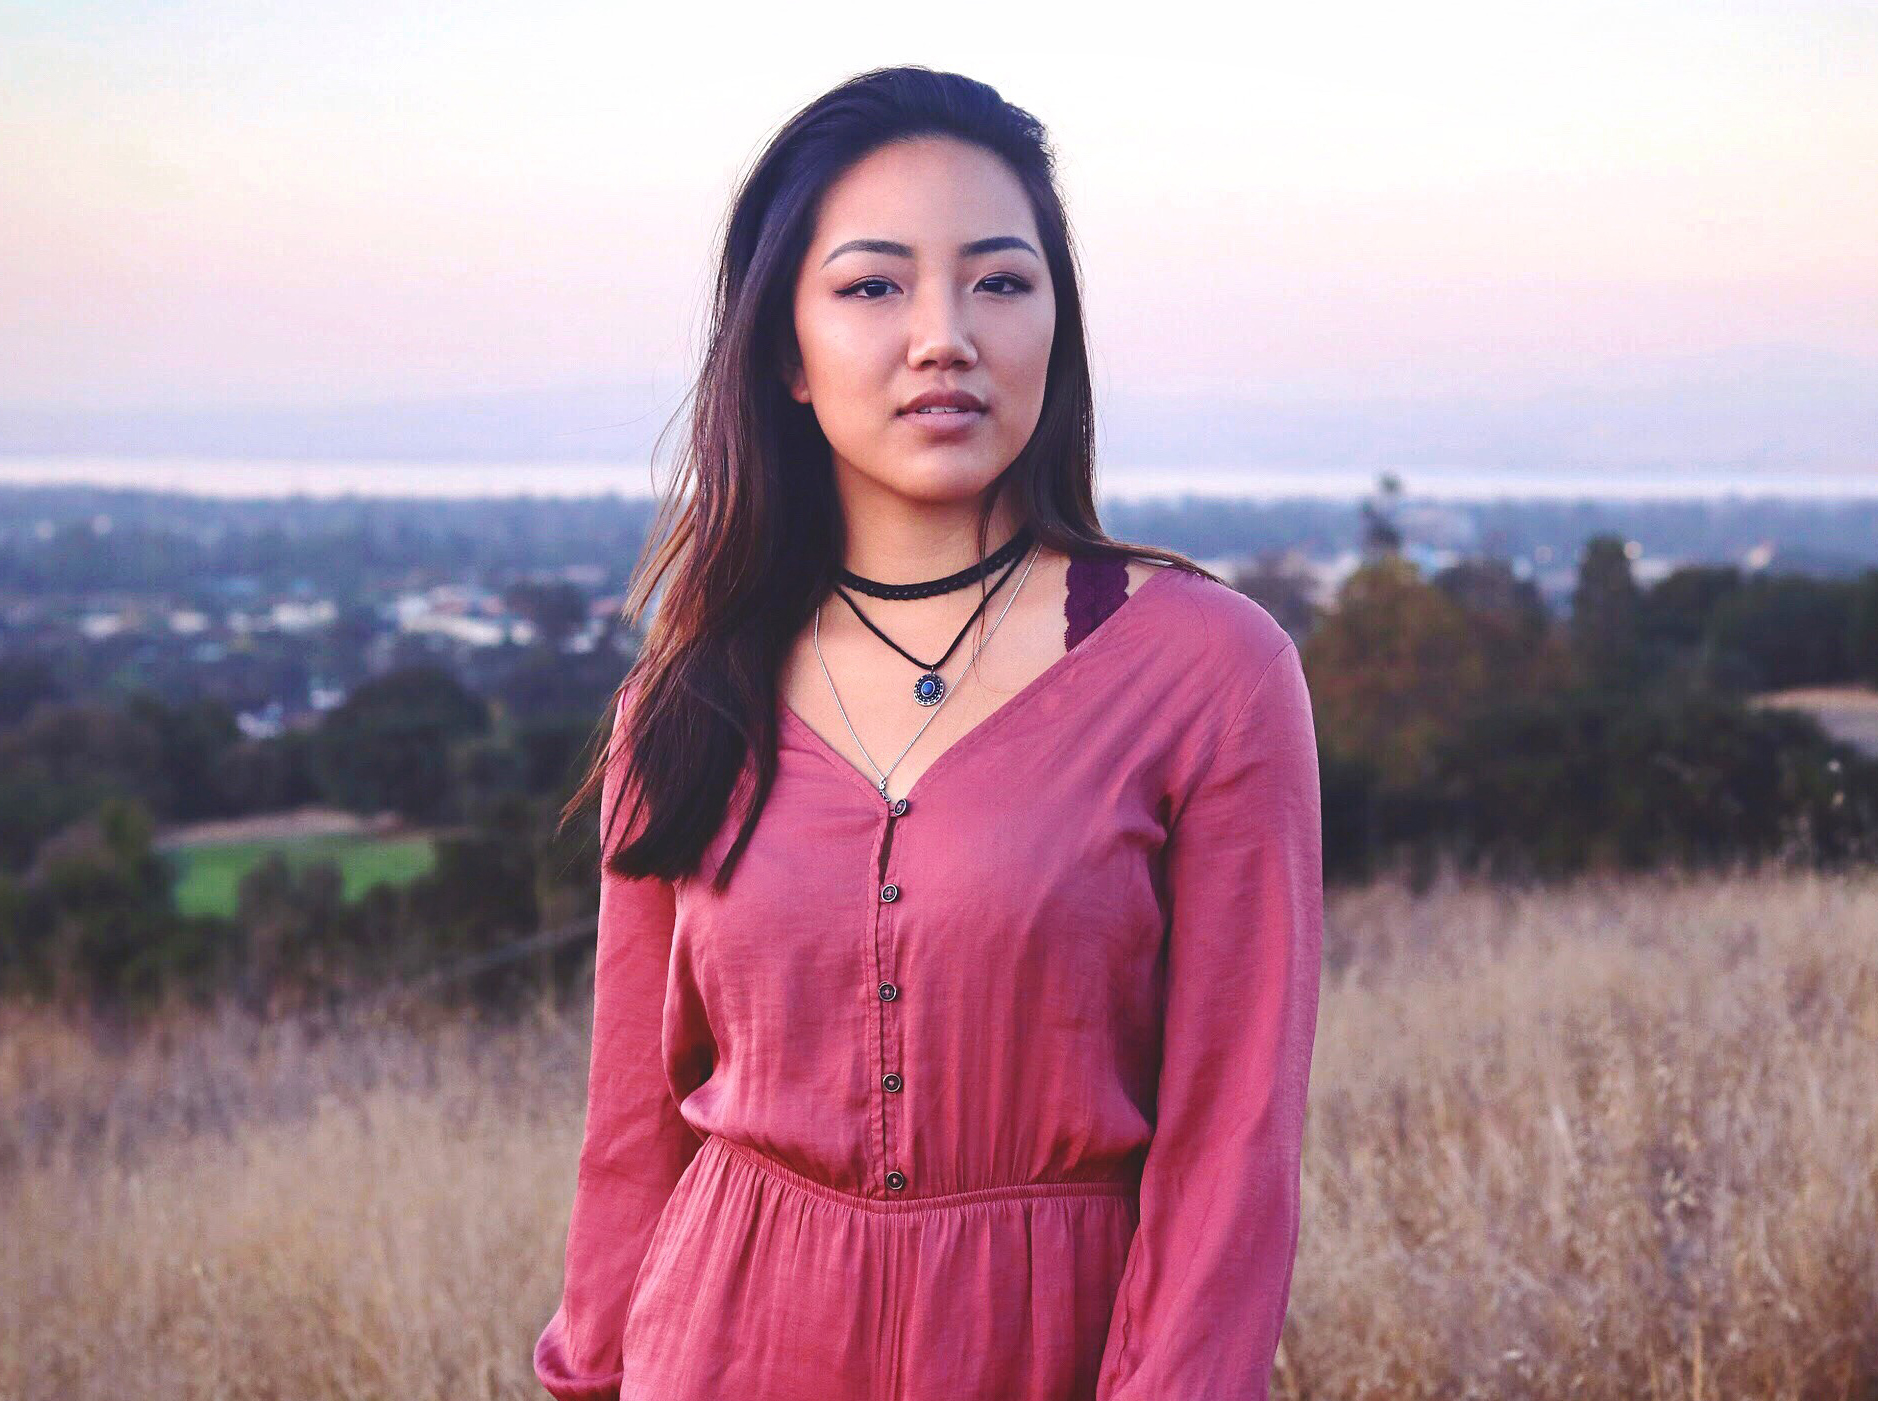
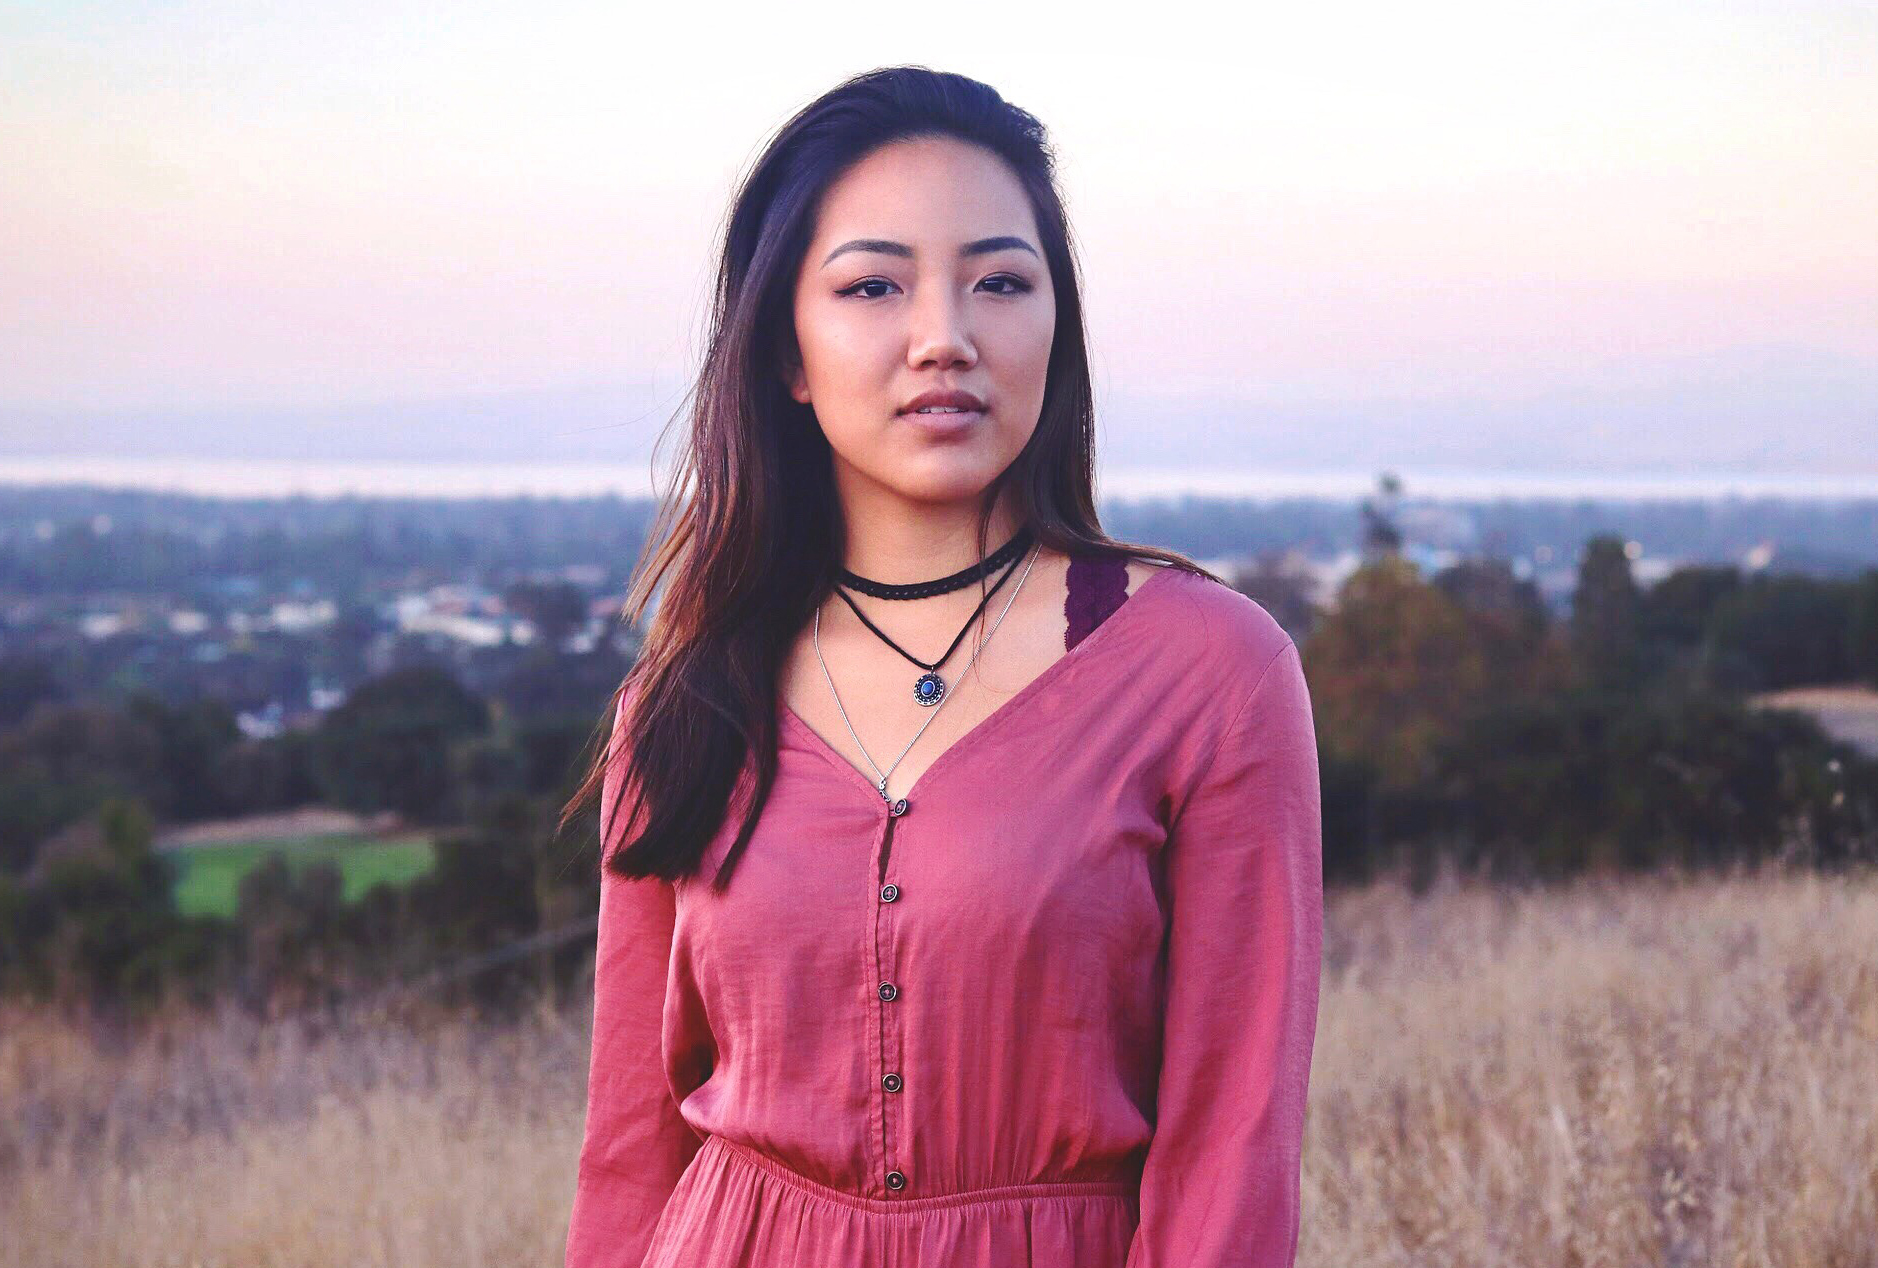
update

diff --git a/index.html b/index.html
@@ -63,7 +63,7 @@
 
    <!-- home
    ================================================== -->
-   <section id="home" class="s-home page-hero target-section" data-parallax="scroll" data-image-src="images/me.jpg" data-natural-width=1878 data-natural-height=1401 data-position-y=center>
+   <section id="home" class="s-home page-hero target-section" data-parallax="scroll" data-image-src="images/me.jpg" data-natural-width=1878 data-natural-height=1268 data-position-y=center>
 
         <div class="overlay"></div>
         <div class="shadow-overlay"></div>
